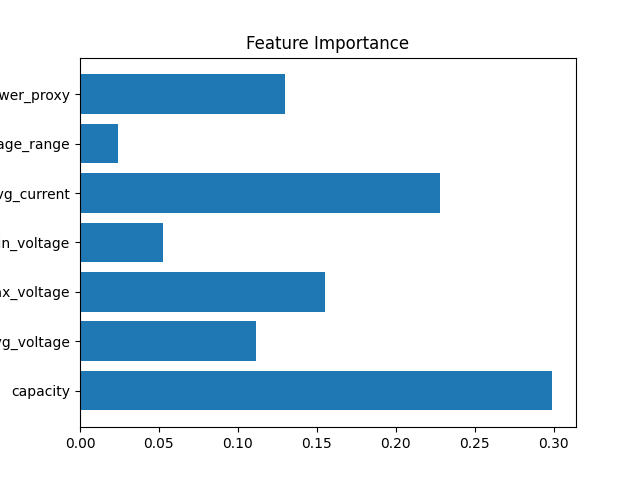
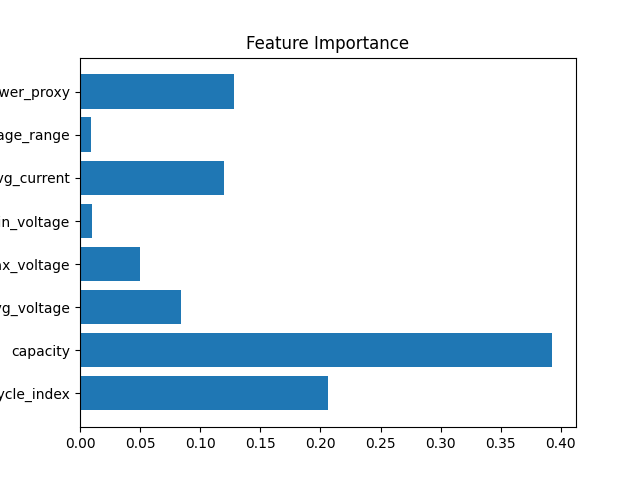
Add cross-battery validation, fix data leakage, and feature ablation analysis

diff --git a/src/main.py b/src/main.py
@@ -1,34 +1,112 @@
 import os
+import pandas as pd
+
 from preprocessing import load_data
 from feature_engineering import create_labels, create_features
 from model import train_model, feature_importance
 
+from sklearn.model_selection import GroupShuffleSplit
+from sklearn.metrics import accuracy_score
+
 
 def main():
-    # Get project root directory
+    # =========================
+    # 1. PATH SETUP
+    # =========================
     BASE_DIR = os.path.dirname(os.path.dirname(os.path.abspath(__file__)))
+    data_dir = os.path.join(BASE_DIR, "data")
 
-    # Build correct path
-    file_path = os.path.join(BASE_DIR, "data", "B0005.mat")
+    # =========================
+    # 2. LOAD + PREPROCESS (MULTI-BATTERY)
+    # =========================
+    battery_files = ["B0005.mat", "B0006.mat"]  # add more if available
 
-    # Load data
-    df = load_data(file_path)
+    dfs = []
 
-    # Feature engineering
-    df = create_features(df)
+    for file in battery_files:
+        file_path = os.path.join(data_dir, file)
 
-    # Labeling
-    df = create_labels(df)
+        temp_df = load_data(file_path)
 
-    # Train model
-    model, features, acc = train_model(df)
+        # Add battery ID
+        battery_id = file.replace(".mat", "")
+        temp_df["battery_id"] = battery_id
 
-    # Feature importance
+        # Feature engineering + labeling
+        temp_df = create_features(temp_df)
+        temp_df = create_labels(temp_df)
+
+        dfs.append(temp_df)
+
+    # Combine all batteries into one dataset
+    df = pd.concat(dfs, ignore_index=True)
+    # =========================
+    # 3. BASELINE MODEL (your current setup)
+    # =========================
+    model, features, baseline_acc = train_model(df)
+
+    print(f"Random Split Accuracy: {baseline_acc:.4f}")
+
+    # =========================
+    # 4. PREPARE DATA FOR VALIDATION TESTS
+    # =========================
+    X = df[features]
+    y = df["label"]   # ⚠ make sure this matches your label column
+    groups = df["battery_id"]  # ⚠ MUST exist
+
+    # =========================
+    # 5. GROUP SPLIT (realistic generalization)
+    # =========================
+    gss = GroupShuffleSplit(n_splits=1, test_size=0.2, random_state=42)
+
+    for train_idx, test_idx in gss.split(X, y, groups):
+        X_train, X_test = X.iloc[train_idx], X.iloc[test_idx]
+        y_train, y_test = y.iloc[train_idx], y.iloc[test_idx]
+
+    model_g, _, _ = train_model(pd.concat([X_train, y_train], axis=1))
+
+    y_pred = model_g.predict(X_test)
+    group_acc = accuracy_score(y_test, y_pred)
+
+    print(f"Group Split Accuracy: {group_acc:.4f}")
+
+    # =========================
+    # 6. NO-CAPACITY TEST
+    # =========================
+    if "capacity" in X.columns:
+        X_no_cap = X.drop(columns=["capacity"])
+
+        for train_idx, test_idx in gss.split(X_no_cap, y, groups):
+            X_train_nc = X_no_cap.iloc[train_idx]
+            X_test_nc = X_no_cap.iloc[test_idx]
+            y_train_nc = y.iloc[train_idx]
+            y_test_nc = y.iloc[test_idx]
+
+        model_nc, _, _ = train_model(pd.concat([X_train_nc, y_train_nc], axis=1))
+
+        y_pred_nc = model_nc.predict(X_test_nc)
+        no_cap_acc = accuracy_score(y_test_nc, y_pred_nc)
+
+        print(f"No Capacity Accuracy: {no_cap_acc:.4f}")
+    else:
+        no_cap_acc = None
+        print("Capacity column not found — skipping no-capacity test")
+
+    # =========================
+    # 7. FEATURE IMPORTANCE
+    # =========================
     feature_importance(model, features)
 
-    # Save results
-    with open(os.path.join(BASE_DIR, "results", "metrics.txt"), "w") as f:
-        f.write(f"Accuracy: {acc}")
+    # =========================
+    # 8. SAVE RESULTS
+    # =========================
+    results_path = os.path.join(BASE_DIR, "results", "metrics.txt")
+
+    with open(results_path, "w") as f:
+        f.write(f"Random Split Accuracy: {baseline_acc:.4f}\n")
+        f.write(f"Group Split Accuracy: {group_acc:.4f}\n")
+        if no_cap_acc is not None:
+            f.write(f"No Capacity Accuracy: {no_cap_acc:.4f}\n")
 
 
 if __name__ == "__main__":

diff --git a/src/preprocessing.py b/src/preprocessing.py
@@ -1,21 +1,37 @@
 import scipy.io
 import pandas as pd
+import os
 
 
 def load_data(file_path):
     data = scipy.io.loadmat(file_path)
-    battery = data['B0005']
+
+    # Dynamically extract battery name from file
+    battery_name = os.path.basename(file_path).replace(".mat", "")
+
+    # Access correct battery key
+    if battery_name in data:
+        battery = data[battery_name]
+    else:
+        # fallback: pick first non-meta key
+        battery_key = [k for k in data.keys() if not k.startswith("__")][0]
+        battery = data[battery_key]
+        battery_name = battery_key
+
     cycles = battery[0][0]['cycle'][0]
 
     records = []
 
-    for cycle in cycles:
+    for i, cycle in enumerate(cycles):
         if cycle['type'][0] == 'discharge':
+
             capacity = cycle['data'][0][0]['Capacity'][0][0]
             voltage = cycle['data'][0][0]['Voltage_measured'][0]
             current = cycle['data'][0][0]['Current_measured'][0]
 
             records.append({
+                "battery_id": battery_name,   # ✅ critical for group split
+                "cycle_index": i,             # ✅ useful for time-based analysis
                 "capacity": capacity,
                 "avg_voltage": voltage.mean(),
                 "max_voltage": voltage.max(),
@@ -24,4 +40,5 @@ def load_data(file_path):
             })
 
     df = pd.DataFrame(records)
+
     return df

diff --git a/src/model.py b/src/model.py
@@ -5,7 +5,7 @@ import seaborn as sns
 import matplotlib.pyplot as plt
 
 def train_model(df):
-    X = df.drop("label", axis=1)
+    X = df.drop(columns=["label", "battery_id"], errors="ignore")
     y = df["label"]
 
     X_train, X_test, y_train, y_test = train_test_split(X, y, test_size=0.2)
